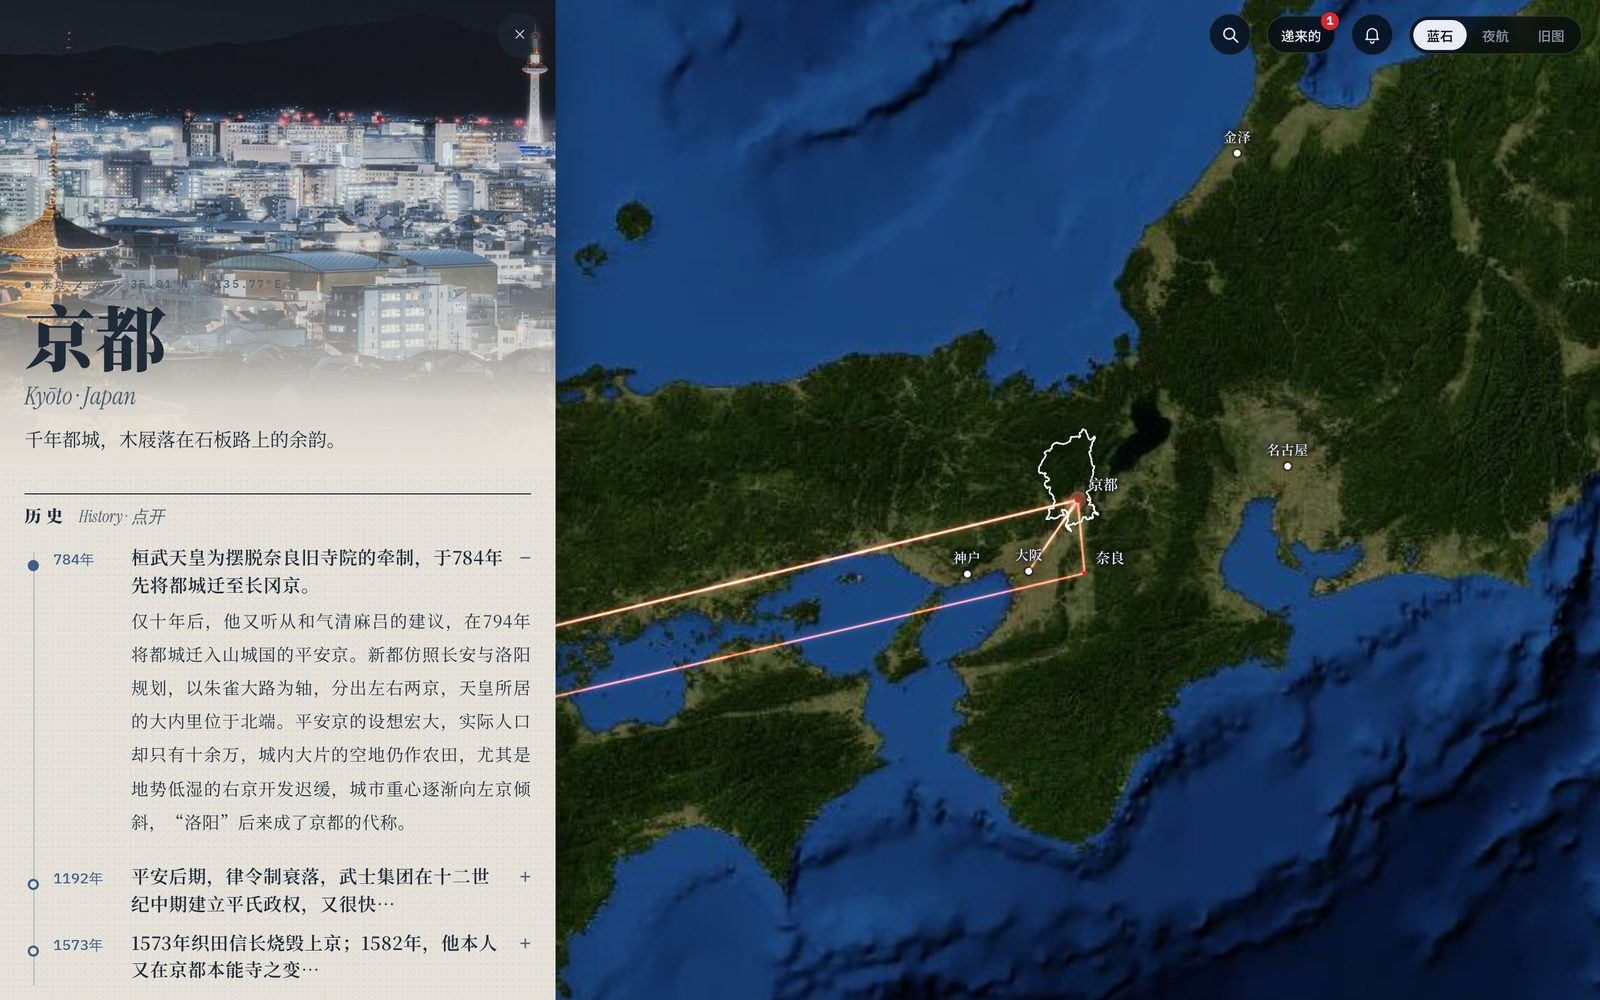
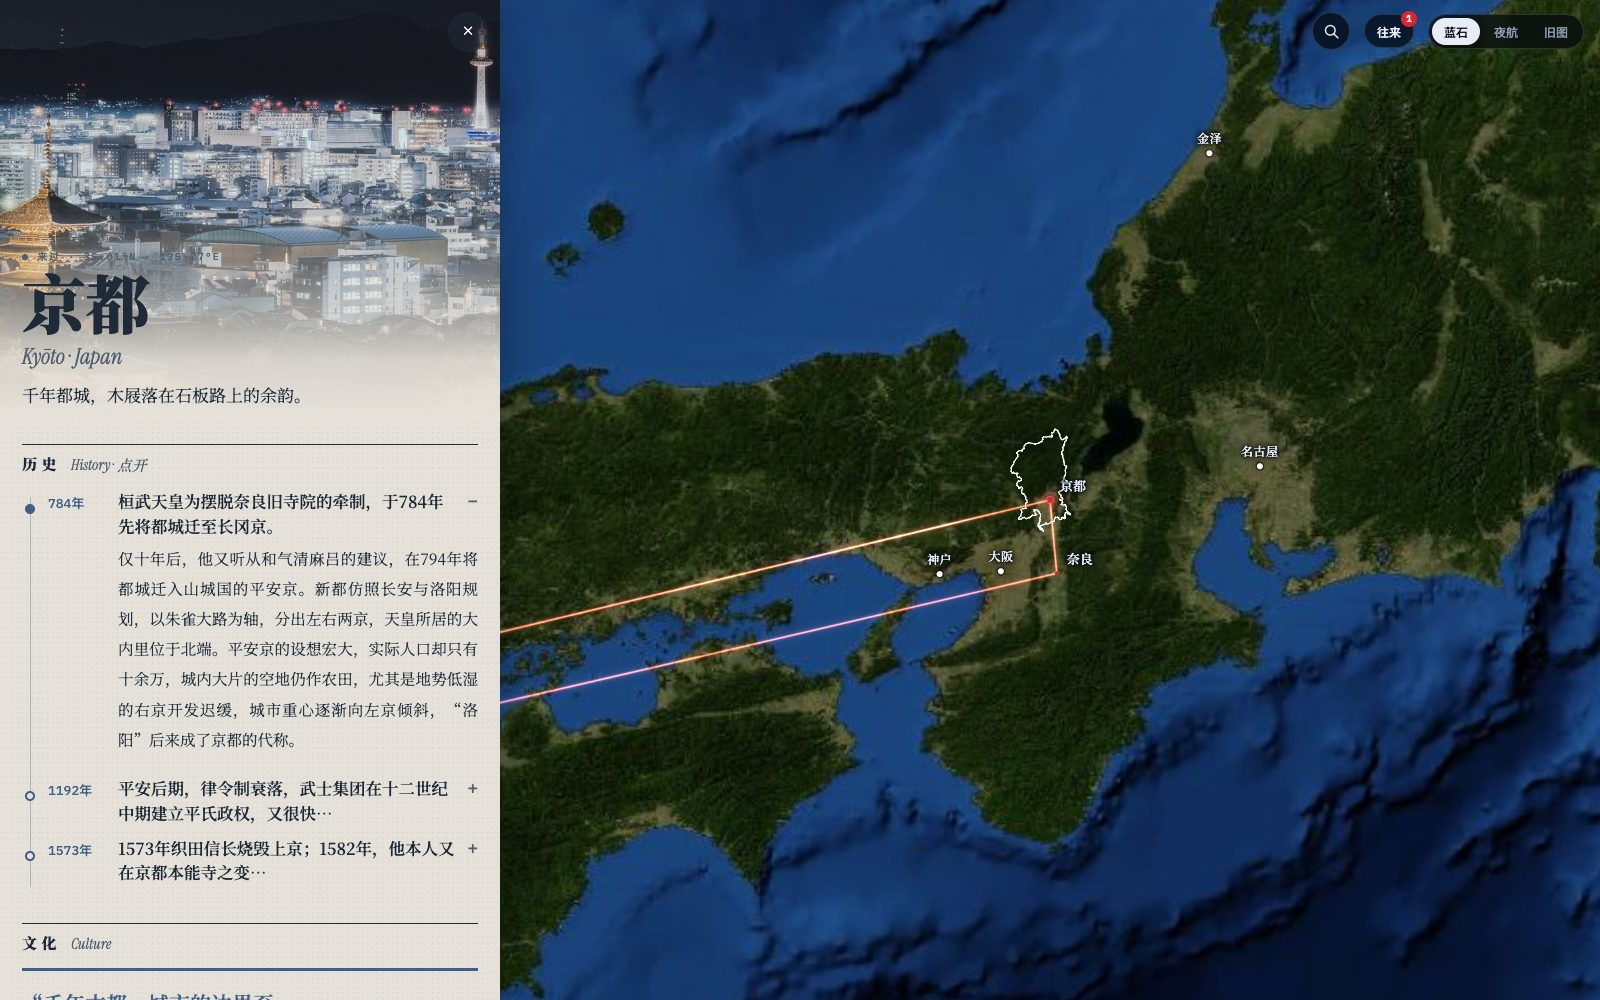
ios: tear the whole stub, top to bottom; README images caught up
The perforation now runs the full height of the boarding pass and the whole right-hand strip tears off; the remark and the partner's comment count sit in the main part of the ticket instead of a footer across both. The tear GIF is re-recorded on the iOS app (it was still the old web page landing on the old trip list), and the desktop screenshot shows the web's current top bar (往来). README says the tap-again auto tear is web only.

diff --git a/ios/Stopover/Ticket.swift b/ios/Stopover/Ticket.swift
@@ -150,23 +150,41 @@ struct BoardingPass: View {
         // 存根以左下角为轴,撕得越开掀得越多,最多 4°;撕下后落到票旁边歪 2°
         let angle = 4 * tear * (1 - detach) + 2 * detach
         // 票身和存根各自带底色、各自圆角,存根才能单独撕下来(整张一起裁圆角的话存根飞不出去)
+        // 存根从顶通到底,整条右边一起撕下来;备注和「TA 说了 N 句」收进左边票身
         VStack(alignment: .leading, spacing: 0) {
             HStack(spacing: 0) {
-                VStack(alignment: .leading, spacing: 10) {
-                    HStack { tkLabel("STOPOVER · 经停"); Spacer(); tkLabel("NO. \(store.ticketNo(trip))") }
-                    TicketRoute(trip: trip, store: store)
-                    HStack(alignment: .top, spacing: 16) {
-                        meta("DATE", date ?? "——")
-                        if !ps.isEmpty { meta("PHOTOS", "\(ps.count)") }
-                        if !ns.isEmpty { meta("NOTES", "\(ns.count)") }
-                        if let k = store.km(trip.origin, trip.city), trip.origin != trip.city { meta("KM", k.formatted(.number.locale(Locale(identifier: "en_US")))) }
+                VStack(alignment: .leading, spacing: 0) {
+                    VStack(alignment: .leading, spacing: 10) {
+                        HStack { tkLabel("STOPOVER · 经停"); Spacer(); tkLabel("NO. \(store.ticketNo(trip))") }
+                        TicketRoute(trip: trip, store: store)
+                        HStack(alignment: .top, spacing: 16) {
+                            meta("DATE", date ?? "——")
+                            if !ps.isEmpty { meta("PHOTOS", "\(ps.count)") }
+                            if !ns.isEmpty { meta("NOTES", "\(ns.count)") }
+                            if let k = store.km(trip.origin, trip.city), trip.origin != trip.city { meta("KM", k.formatted(.number.locale(Locale(identifier: "en_US")))) }
+                        }
+                    }
+                    .padding(.leading, 16).padding(.trailing, 12).padding(.top, 14).padding(.bottom, 12)
+                    .opacity(blank ? 0.75 : 1)
+                    if foot {
+                        if let r = trip.remark, !r.isEmpty {
+                            VStack(alignment: .leading, spacing: 3) {
+                                tkLabel("REMARKS · 备注")
+                                Text(r).font(StopoverK.serif(15)).foregroundStyle(StopoverK.ink).lineSpacing(5)
+                            }
+                            .frame(maxWidth: .infinity, alignment: .leading)
+                            .padding(.leading, 16).padding(.trailing, 12).padding(.top, 10).padding(.bottom, 12)
+                            .overlay(alignment: .top) { Rectangle().fill(StopoverK.harbor.opacity(0.14)).frame(height: 1) }
+                        }
+                        if cm > 0 {
+                            Text("\(StopoverStore.shared.config.partner)说了 \(cm) 句").font(StopoverK.serif(12.5)).foregroundStyle(TK.yy)
+                                .padding(.horizontal, 16).padding(.bottom, 10)
+                        }
                     }
                 }
-                .padding(.leading, 16).padding(.trailing, 12).padding(.top, 14).padding(.bottom, 12)
-                .opacity(blank ? 0.75 : 1)
                 .frame(maxHeight: .infinity, alignment: .top)
                 .background(TK.card)
-                .clipShape(TearEdge(stub: false, tear: tear, nibs: nibs, roundBottom: !foot))
+                .clipShape(TearEdge(stub: false, tear: tear, nibs: nibs))
                 // 存根: 左边一道虚线,上下各咬一个半圆缺口
                 VStack(alignment: .leading) {
                     tkLabel("SEAT")
@@ -182,7 +200,7 @@ struct BoardingPass: View {
                     VLine().stroke(StopoverK.harbor.opacity(0.28), style: StrokeStyle(lineWidth: 2, dash: [5, 4])).frame(width: 2)
                         .opacity(1 - tear)
                 }
-                .clipShape(TearEdge(stub: true, tear: tear, nibs: nibs, roundBottom: !foot))
+                .clipShape(TearEdge(stub: true, tear: tear, nibs: nibs))
                 .shadow(color: StopoverK.ink.opacity(0.18 * (tear * 0.5 + detach * 0.5)), radius: 8 * (tear + detach), y: 4 * (tear + detach))
                 .rotationEffect(.degrees(angle), anchor: .bottomLeading)
                 .offset(x: hand.width + 24 * detach, y: hand.height + 8 * detach)
@@ -199,25 +217,6 @@ struct BoardingPass: View {
                     }
                     .allowsHitTesting(false)
                 }
-            }
-            if foot {
-                VStack(alignment: .leading, spacing: 0) {
-                    if let r = trip.remark, !r.isEmpty {
-                        VStack(alignment: .leading, spacing: 3) {
-                            tkLabel("REMARKS · 备注")
-                            Text(r).font(StopoverK.serif(15)).foregroundStyle(StopoverK.ink).lineSpacing(5)
-                        }
-                        .frame(maxWidth: .infinity, alignment: .leading)
-                        .padding(.horizontal, 16).padding(.top, 10).padding(.bottom, 12)
-                        .overlay(alignment: .top) { Rectangle().fill(StopoverK.harbor.opacity(0.14)).frame(height: 1) }
-                    }
-                    if cm > 0 {
-                        Text("\(StopoverStore.shared.config.partner)说了 \(cm) 句").font(StopoverK.serif(12.5)).foregroundStyle(TK.yy)
-                            .padding(.horizontal, 16).padding(.bottom, 10)
-                    }
-                }
-                .frame(maxWidth: .infinity, alignment: .leading)
-                .background(TK.card, in: UnevenRoundedRectangle(bottomLeadingRadius: 12, bottomTrailingRadius: 12, style: .continuous))
             }
         }
         .compositingGroup()

diff --git a/README.en.md b/README.en.md
@@ -18,7 +18,7 @@ Mark the cities you've been to on a globe. Every stopover is a boarding pass —
 
 - **Three globes**: Blue Marble (蓝石; NASA satellite imagery that sharpens as you zoom in), Night Flight (夜航; NASA Black Marble city lights with the day/night line) and Old Map (旧图; Natural Earth vector borders on a paper texture).
 - **Traces on the map**: red dots for places you've been, with a glowing arc flying in from where you set off and on to where you went next if there is one. Places you want to go are stars — gold for you, blue for your partner, a pair when you both want to go. Clocks and day/night follow the time zones in your config.
-- **Boarding passes**: one per visit — origin → city → next stop, dates, distance and a remark. Tap to lift it, drag the stub to tear it off (or tap again and it tears itself), and you're in the trip.
+- **Boarding passes**: one per visit — origin → city → next stop, dates, distance and a remark. Tap to lift it, hold the stub on the right and pull down along the perforation to tear the whole strip off (on the web, tapping again tears it for you), and you're in the trip.
 
 - **The trip page** (这一次): notes of any length, photos (deduplicated, EXIF capture date, captions and tags), and editable dates, origin and next stop. On the web and iOS it's a [binder folder](#the-trip-page-a-binder-folder).
 - **City pages**: 852 cities have a long-form Chinese page — a history timeline, culture, a sights carousel and a food menu, illustrated with Wikimedia Commons photos and with sources linked on the page. The other 769 have a "Write it up" (整理) button that drafts a page on the spot from Wikipedia / Wikivoyage (needs a DeepSeek key); places not on the map can be found on Wikidata and added.
@@ -35,8 +35,8 @@ Mark the cities you've been to on a globe. Every stopover is a boarding pass —
 
 ![Desktop: the Kyoto page next to a zoomed-in globe](docs/img/desktop.jpg)
 
-<p align="center"><img src="docs/img/tear.gif" width="280" alt="Lifting a boarding pass and tearing off the stub to open the trip"></p>
-<p align="center"><sub>Like this: tap to lift the pass, drag the stub down and away, and the trip is right behind it.</sub></p>
+<p align="center"><img src="docs/img/tear.gif" width="280" alt="Lifting a boarding pass and tearing the whole stub off; the trip folder is right behind it"></p>
+<p align="center"><sub>Like this: tap to lift the pass, hold the stub and pull down along the perforation, the whole strip comes off, and the trip folder is right behind it.</sub></p>
 
 ### The trip page: a binder folder
 

diff --git a/README.md b/README.md
@@ -18,7 +18,7 @@
 
 - **地球三种风格**：蓝石（NASA Blue Marble 卫星图，越放大越清楚）、夜航（NASA Black Marble 城市灯光，配晨昏线）、旧图（Natural Earth 矢量国界，纸面质感）。
 - **地图上的痕迹**：来过的城是红点，从出发地拉出一道光带飞过去，有终点的再连回去；想去的是星星——金色是你的、蓝色是 TA 的、两个人都想去的是一对。时钟和昼夜按配置里的时区显示。
-- **登机牌**：每来一次是一张票——出发地 → 城市 → 终点、日期、里程、一句备注。轻点抬起，拖着存根撕开（或再点一下让它自己撕），进入「这一次」。
+- **登机牌**：每来一次是一张票——出发地 → 城市 → 终点、日期、里程、一句备注。轻点抬起，按住右边的存根顺着虚线往下拉，整条撕下来（网页上再点一下也会自己撕），进入「这一次」。
 
 - **这一次**：随记（长短都行）、照片（自动去重、读拍摄时间、配文和标签）、改日期 / 出发地 / 终点。网页和 iOS 都把它做成了一只[活页文件夹](#这一次活页文件夹)。
 - **城市长卷**：852 座城有中文长卷——历史时间轴、文化、景点轮播、美食菜单，配维基共享资源的图，页面上带来源链接。另外 769 座点开有「整理」按钮，现场从 Wikipedia / Wikivoyage 写一页（要 DeepSeek key）；地图上没有的地方可以从 Wikidata 搜出来加上。
@@ -35,8 +35,8 @@
 
 ![桌面版：京都长卷和放大的地球](docs/img/desktop.jpg)
 
-<p align="center"><img src="docs/img/tear.gif" width="280" alt="抬起登机牌，拖着存根撕开，进入「这一次」"></p>
-<p align="center"><sub>就是这样：轻点抬起登机牌，拖着存根往右下撕开，「这一次」就在后面。</sub></p>
+<p align="center"><img src="docs/img/tear.gif" width="280" alt="抬起登机牌，整条存根撕下来，文件夹就在后面"></p>
+<p align="center"><sub>就是这样：轻点抬起登机牌，按住右边的存根顺着虚线往下拉，整条撕下来，「这一次」的文件夹就在后面。</sub></p>
 
 ### 「这一次」：活页文件夹
 
